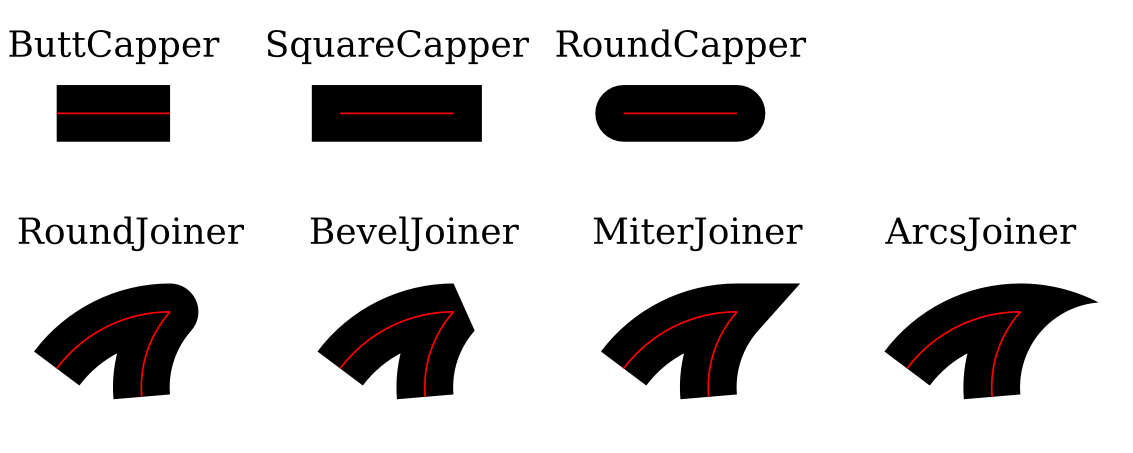
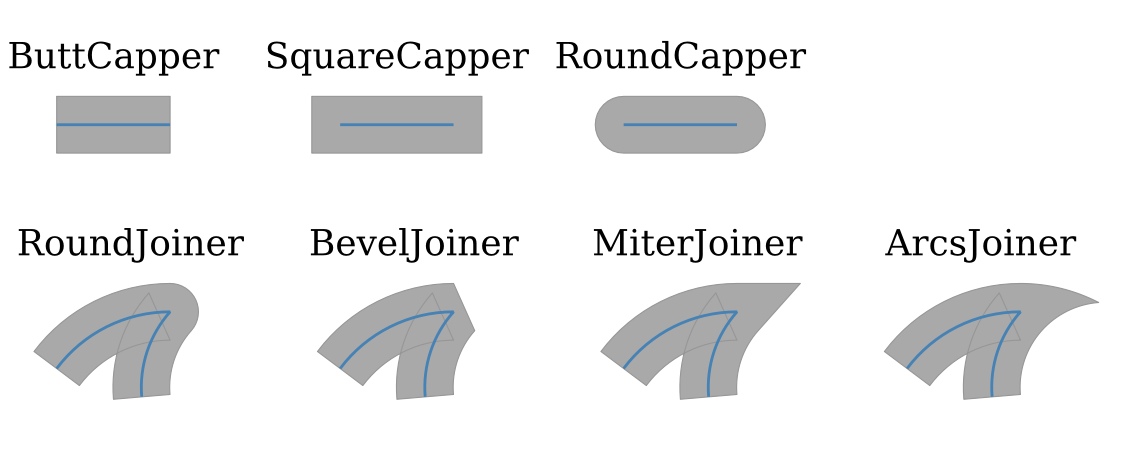
Improve stroke example test

diff --git a/example/stroke_example.go b/example/stroke_example.go
@@ -1,6 +1,7 @@
 package main
 
 import (
+	"image/color"
 	"image/png"
 	"os"
 
@@ -37,10 +38,14 @@ func drawStrokedPath(c *canvas.C, x, y float64, path string, cr canvas.Capper, j
 	if err != nil {
 		panic(err)
 	}
-	c.SetColor(canvas.Black)
-	c.DrawPath(x, y, 0.0, p.Stroke(10.0, cr, jr))
-	c.SetColor(canvas.Red)
-	c.DrawPath(x, y, 0.0, p.Stroke(0.3, canvas.ButtCapper, canvas.BevelJoiner))
+
+	outerStroke := p.Stroke(10.0, cr, jr)
+	c.SetColor(canvas.DarkGrey)
+	c.DrawPath(x, y, 0.0, outerStroke)
+	c.SetColor(color.RGBA{150, 150, 150, 255})
+	c.DrawPath(x, y, 0.0, outerStroke.Stroke(0.2, canvas.ButtCapper, canvas.RoundJoiner))
+	c.SetColor(canvas.SteelBlue)
+	c.DrawPath(x, y, 0.0, p.Stroke(0.5, canvas.ButtCapper, canvas.BevelJoiner))
 }
 
 func drawText(c *canvas.C, x, y float64, text string) {
@@ -53,24 +58,24 @@ func Draw(c *canvas.C) {
 	pathCapper := "M-20 0L0 0"
 	pathJoiner := "M-20 -10A25 25 0 0 0 0 0A20 20 0 0 1 -5 -15"
 
-	drawText(c, 20.0, 70.0, "ButtCapper")
-	drawStrokedPath(c, 30.0, 60.0, pathCapper, canvas.ButtCapper, canvas.RoundJoiner)
+	drawText(c, 20.0, 75.0, "ButtCapper")
+	drawStrokedPath(c, 30.0, 58.0, pathCapper, canvas.ButtCapper, canvas.RoundJoiner)
 
-	drawText(c, 70.0, 70.0, "SquareCapper")
-	drawStrokedPath(c, 80.0, 60.0, pathCapper, canvas.SquareCapper, canvas.RoundJoiner)
+	drawText(c, 70.0, 75.0, "SquareCapper")
+	drawStrokedPath(c, 80.0, 58.0, pathCapper, canvas.SquareCapper, canvas.RoundJoiner)
 
-	drawText(c, 120.0, 70.0, "RoundCapper")
-	drawStrokedPath(c, 130.0, 60.0, pathCapper, canvas.RoundCapper, canvas.RoundJoiner)
+	drawText(c, 120.0, 75.0, "RoundCapper")
+	drawStrokedPath(c, 130.0, 58.0, pathCapper, canvas.RoundCapper, canvas.RoundJoiner)
 
-	drawText(c, 23.0, 37.0, "RoundJoiner")
+	drawText(c, 23.0, 42.0, "RoundJoiner")
 	drawStrokedPath(c, 30.0, 25.0, pathJoiner, canvas.ButtCapper, canvas.RoundJoiner)
 
-	drawText(c, 73.0, 37.0, "BevelJoiner")
+	drawText(c, 73.0, 42.0, "BevelJoiner")
 	drawStrokedPath(c, 80.0, 25.0, pathJoiner, canvas.ButtCapper, canvas.BevelJoiner)
 
-	drawText(c, 123.0, 37.0, "MiterJoiner")
+	drawText(c, 123.0, 42.0, "MiterJoiner")
 	drawStrokedPath(c, 130.0, 25.0, pathJoiner, canvas.ButtCapper, canvas.MiterJoiner)
 
-	drawText(c, 173.0, 37.0, "ArcsJoiner")
+	drawText(c, 173.0, 42.0, "ArcsJoiner")
 	drawStrokedPath(c, 180.0, 25.0, pathJoiner, canvas.ButtCapper, canvas.ArcsJoiner)
 }

diff --git a/README.md b/README.md
@@ -81,7 +81,7 @@ ff.Kerning(r0, r1 rune) float64               // return kerning between runes
 
 text := NewText(ff, "string")                                            // simple text with newlines
 text := NewTextBox(ff, "string", width, height, halign, valign, indent)  // split on word boundaries and specify text alignment
-text.Bounds() (width, height float64)
+text.Bounds() Rect
 text.ToPath() *Path
 text.ToSVG() string  // convert to series of <tspan>
 ```
